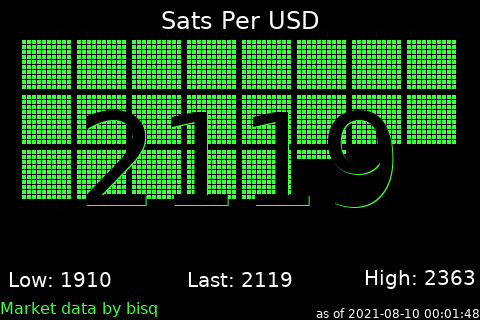
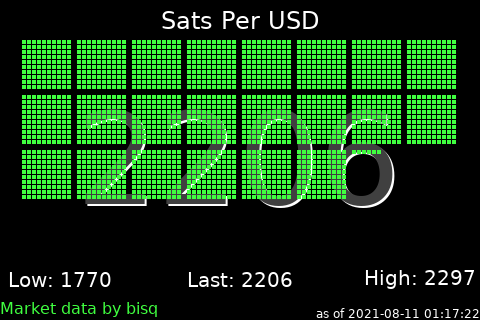
move value behind sats grid

diff --git a/scripts/satsperfiat.py b/scripts/satsperfiat.py
@@ -7,6 +7,7 @@ import time
 
 priceurl="https://bisq.markets/bisq/api/markets/ticker"
 outputFile="/home/admin/images/satsperusd.png"
+color404040=ImageColor.getrgb("#404040")
 color40FF40=ImageColor.getrgb("#40FF40")
 color000000=ImageColor.getrgb("#000000")
 colorFFFFFF=ImageColor.getrgb("#ffffff")
@@ -81,6 +82,8 @@ def createimage(width=480, height=320):
     padtop=40
     im = Image.new(mode="RGB", size=(width, height))
     draw = ImageDraw.Draw(im)
+    drawcenteredtext(draw, str(satsperfiatunit), 128, int(width/2), int(height/2), colorFFFFFF)
+    drawcenteredtext(draw, str(satsperfiatunit), 128, int(width/2)-2, int(height/2)-2, color404040)
     dc = 0
     dr = 0
     while satsleft > 100:
@@ -95,8 +98,6 @@ def createimage(width=480, height=320):
     drawcenteredtext(draw, "Last: " + str(satsperfiatunit), 20, int(width/8*4), height-padtop)
     drawcenteredtext(draw, "High: " + str(satsperfiatunitlow), 20, int(width/8*7), height-padtop)
     drawcenteredtext(draw, "Low: " + str(satsperfiatunithigh), 20, int(width/8*1), height-padtop)
-    drawcenteredtext(draw, str(satsperfiatunit), 128, int(width/2), int(height/2), color40FF40)
-    drawcenteredtext(draw, str(satsperfiatunit), 128, int(width/2)-1, int(height/2)-1, color000000)
     drawbottomlefttext(draw, "Market data by bisq", 16, 0, height, color40FF40)
     drawbottomrighttext(draw, "as of " + getdateandtime(), 12, width, height)
     im.save(outputFile)
